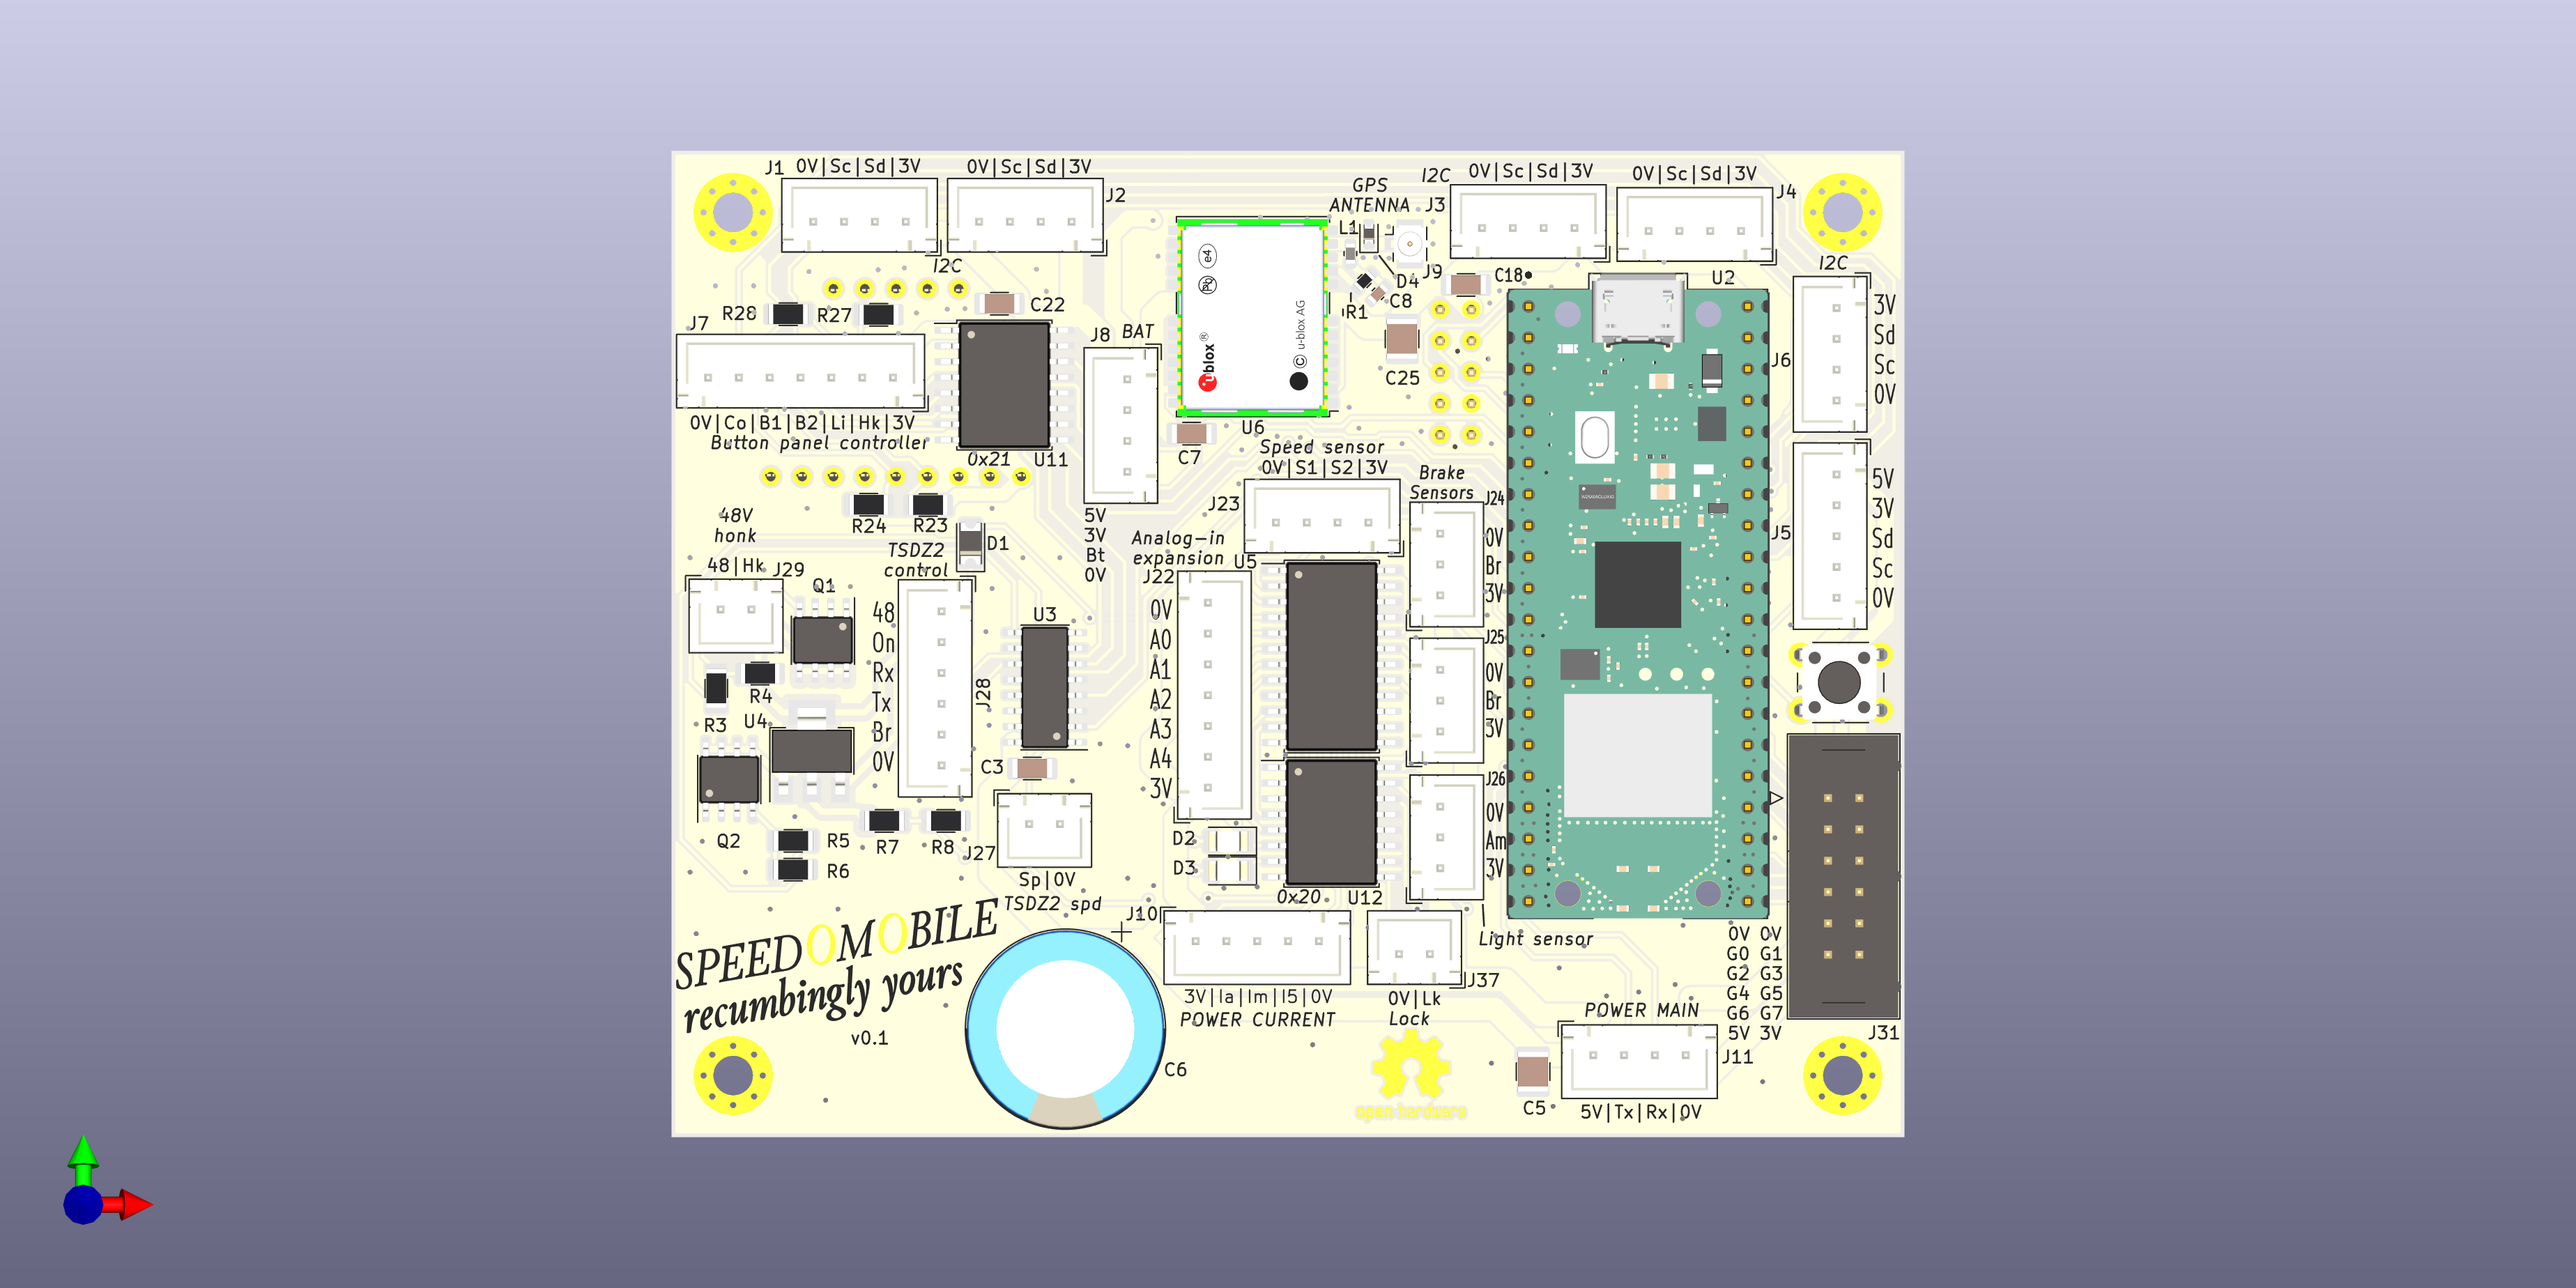
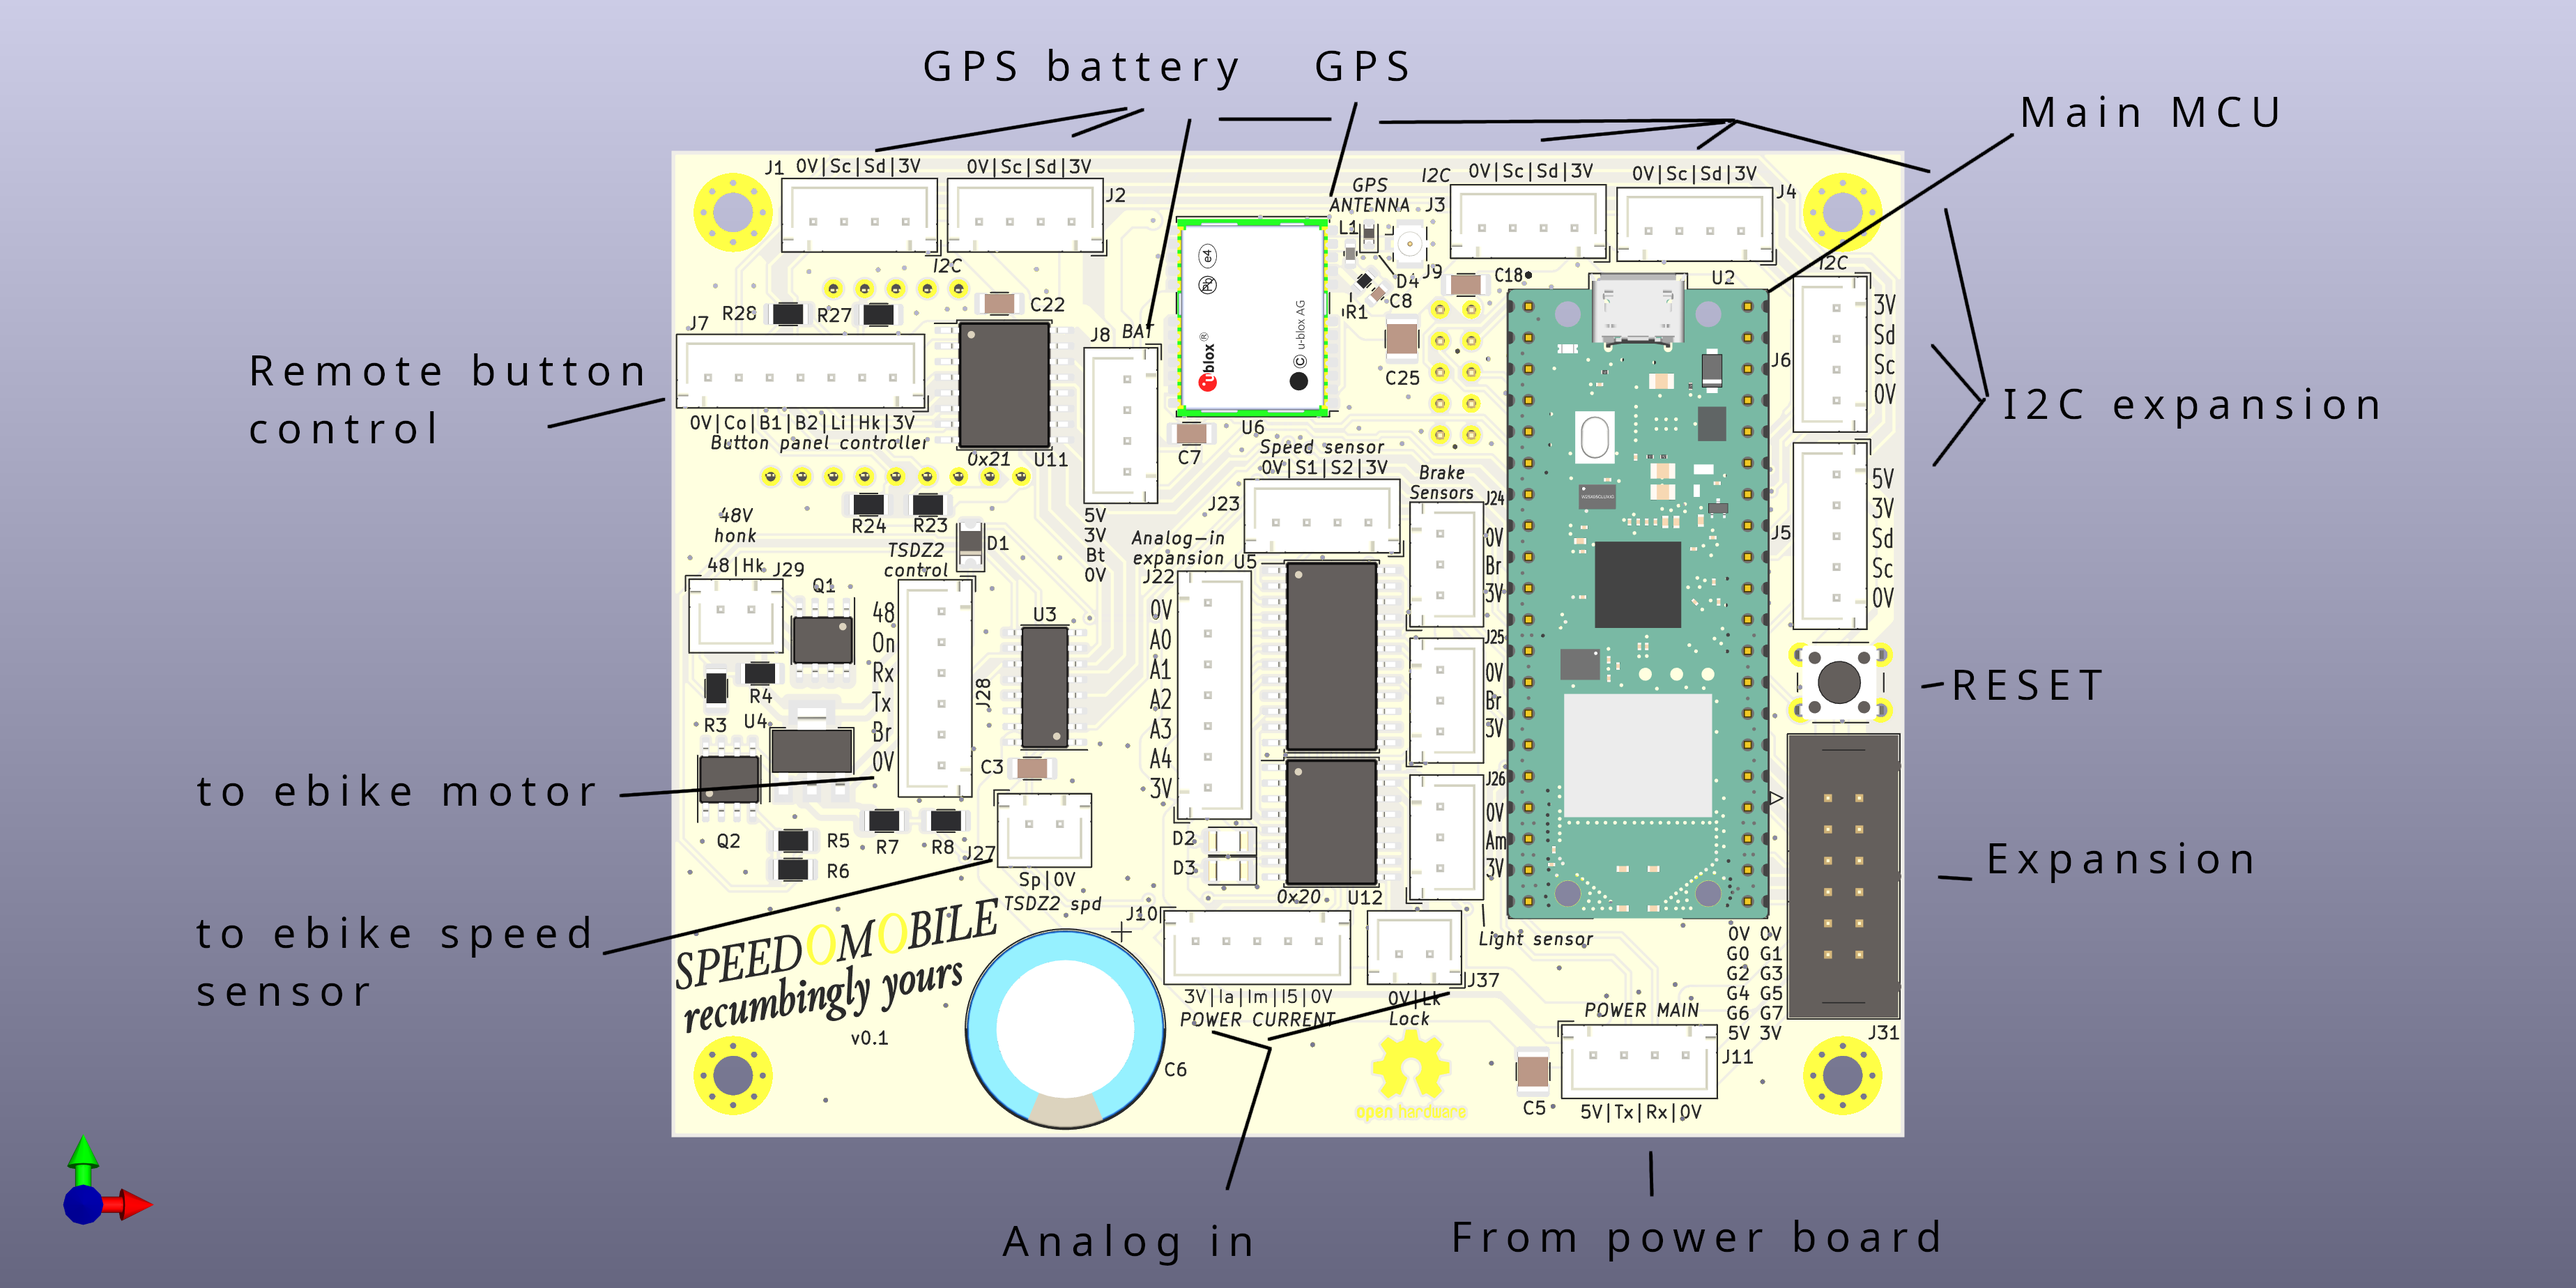
Improving README

diff --git a/README.md b/README.md
@@ -1,0 +1,89 @@
+# Introduction
+
+This project goal is to have a fun plateform to showcase the following :
+
+- sensor fusion
+- persistence of vision
+- spatial pollution measurement
+- video stream enhancement
+- non trivial Rust project
+- PCB design
+
+It consists, in a way, in a "let's put every components I can find" kind of project
+
+# Firmware
+
+To be done
+
+# 3D printing
+
+Some care will be taken to properly protect components from the rain
+
+To be done
+
+# Hardware
+
+On the hardware side, four boards have been designed
+
+## Main board
+
+This board contain the main MCU, and display the following features :
+
+- 9DOF IMU
+- high resolution GPS (ublox M9N)
+- Brake sensor
+- Ambiant light measurement
+- Wheel speed measurement
+- Communication with TSDZ2 motor
+- I2C expansion connector
+- Communication with power board
+- Connector for remote control buttons
+
+This board could/should have been a 4 layer board, but I wanted to try the interesting challenge of providing low impedance ground connection with only two layer. Fortunately, besides the GPS antenna, every signal here is low frequency.
+
+![Main view](./hardware/images%20for%20README/main-board-main.jpg 'main board')
+![Top view](./hardware/images%20for%20README/main-board-top.png 'main board')
+![Bottom view](./hardware/images%20for%20README/main-board-bottom.png 'main board')
+
+## Power board
+
+This board transforms and distributes high voltage from the battery to low 5V voltage.
+
+It also :
+
+- measures battery usage
+- protects every connection through PTC fuses
+- provides SPI connexion for APA102 led strip
+- provides switched 5V connector
+
+Carrying 72A over a 35um pcb is hard. My design choice is to solder copper braid over the back of the board to carry this current. That way, low impedance connection can be done at a cheap price.
+
+![Main view](./hardware/images%20for%20README/power-board-main.jpg 'power board')
+![Top view](./hardware/images%20for%20README/power-board-top.png 'power board')
+![Bottom view](./hardware/images%20for%20README/power-board-bottom.png 'power board')
+
+## Main I2C board
+
+This board simply connect to the I2C bus the following :
+
+- An I2C LCD (20x4)
+- An RFID reader
+- Two rotary encoder, through an I2C expander
+
+This board will be the main way to interact with the main board, besides WIFI
+
+![Main view](./hardware/images%20for%20README/i2c-board-main.jpg 'i2c board')
+![Top view](./hardware/images%20for%20README/i2c-board-top.png 'i2c board')
+
+## Air quality measurement I2C board
+
+This board simply connect to the I2C bus the following :
+
+- A Temperature/Pressure/Humidity/VOC BME680 sensor
+- A PM2.5 sensor
+
+It aims at providing high quality information about the air around the bike
+
+![Main view](./hardware/images%20for%20README/i2c-board-measurement-main.jpg 'power board')
+![Top view](./hardware/images%20for%20README/i2c-board-measurement-top.png 'power board')
+![Bottom view](./hardware/images%20for%20README/i2c-board-measurement-bottom.png 'power board')
